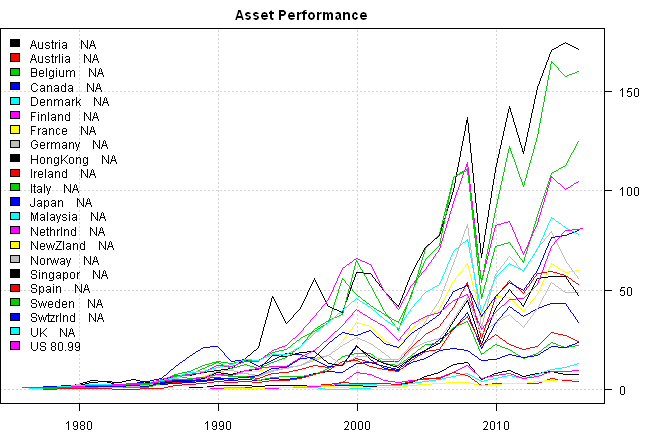
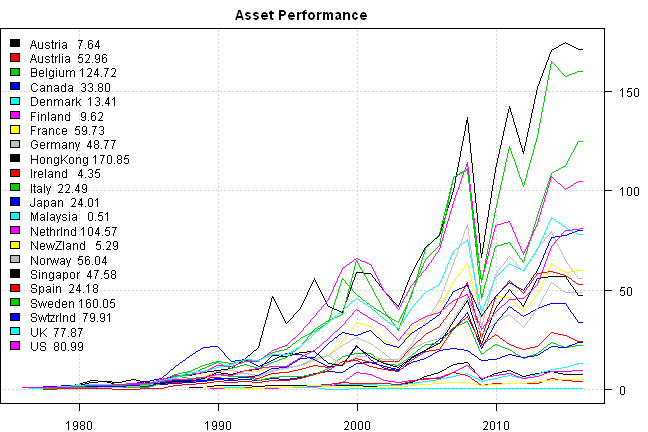
update blog post

diff --git a/_posts/2016-03-27-Country-Seasonality.md b/_posts/2016-03-27-Country-Seasonality.md
@@ -19,6 +19,7 @@ Load historical country returns from AQR data library
 
 
 
+
 {% highlight r %}
 #*****************************************************************
 # Read historical data from AQR library
@@ -76,20 +77,7 @@ signal = ret < 0
 signals = list(down1yr = signal, down2yr = signal & mlag(signal), down3yr=signal & mlag(signal) & mlag(signal,2))
 
 # compute stats
-stats = list()
-for(signal in names(signals)) {
-	temp = signals[[signal]]
-	stats[[paste(signal,'hold1yr')]] = coredata(ret)[ifna(mlag(temp),F)]
-	stats[[paste(signal,'hold2yr')]] = 1/2 * coredata(ret + mlag(ret,-1))[ifna(mlag(temp),F)]
-	stats[[paste(signal,'hold3yr')]] = 1/3 * coredata(ret + mlag(ret,-1) + + mlag(ret,-3))[ifna(mlag(temp),F)]
-}
-stats = lapply(stats,na.omit)
-# sapply(stats,mean) # mean
-
-# make a barplot
-par(mar = c(8, 4, 2, 1))
-boxplot(stats,las=2)
-	abline(h=0,col='gray')
+make.stats(signals, ret)
 {% endhighlight %}
 
 ![plot of chunk plot-3](/public/images/2016-03-27-Country-Seasonality/plot-3-1.png) 
@@ -109,32 +97,9 @@ and holds for the next 1/2/3 years
 #*****************************************************************
 # Strategy
 #*****************************************************************
-models = list()
+models = run.models(signals, data)
 
-data$weight[] = NA
-	data$weight[] = ntop(prices, n)
-models$equal.weight = bt.run(data, silent=T)
-
-for(signal in names(signals)) {
-	temp = signals[[signal]]
-	data$weight[] = NA
-		data$weight[] = ntop(temp, n)
-	models[[paste(signal,'hold1yr')]] = bt.run(data, silent=T)
-	
-	temp = signals[[signal]]
-		temp = temp | mlag(temp)
-	data$weight[] = NA
-		data$weight[] = ntop(temp, n)
-	models[[paste(signal,'hold2yr')]] = bt.run(data, silent=T)
-	
-	temp = signals[[signal]]
-		temp = temp | mlag(temp) | mlag(temp,2)
-	data$weight[] = NA
-		data$weight[] = ntop(temp, n)
-	models[[paste(signal,'hold3yr')]] = bt.run(data, silent=T)
-}
-
-strategy.performance.snapshoot(models, T, sort.performance=F)
+strategy.performance.snapshoot(models, T)
 {% endhighlight %}
 
 ![plot of chunk plot-4](/public/images/2016-03-27-Country-Seasonality/plot-4-1.png) NULL
@@ -168,7 +133,66 @@ For example, we may run the same tests using 1% as the trigger.
 Alternatively the trigger value can be derived from recent market data
 and adaptively adjusted as market enter new regimes.
  
+ 
+ Supporting functions:
+ ---
+ 
 
+
+{% highlight r %}
+#*****************************************************************
+# Stats
+#*****************************************************************
+make.stats = function(signals, ret) {
+	# compute stats
+	stats = list()
+	for(signal in names(signals)) {
+		temp = signals[[signal]]
+		stats[[paste(signal,'hold1yr')]] = coredata(ret)[ifna(mlag(temp),F)]
+		stats[[paste(signal,'hold2yr')]] = 1/2 * coredata(ret + mlag(ret,-1))[ifna(mlag(temp),F)]
+		stats[[paste(signal,'hold3yr')]] = 1/3 * coredata(ret + mlag(ret,-1) + + mlag(ret,-3))[ifna(mlag(temp),F)]
+	}
+	stats = lapply(stats,na.omit)
+	# sapply(stats,mean) # mean
+
+	# make a barplot
+	par(mar = c(8, 4, 2, 1))
+	boxplot(stats,las=2)
+		abline(h=0,col='gray')
+}
+
+#*****************************************************************
+# Strategy
+#*****************************************************************
+run.models = function(signals, data) {
+	models = list()
+
+	data$weight[] = NA
+		data$weight[] = ntop(prices, n)
+	models$equal.weight = bt.run(data, silent=T)
+
+	for(signal in names(signals)) {
+		temp = signals[[signal]]
+		data$weight[] = NA
+			data$weight[] = ntop(temp, n)
+		models[[paste(signal,'hold1yr')]] = bt.run(data, silent=T)
+		
+		temp = signals[[signal]]
+			temp = temp | mlag(temp)
+		data$weight[] = NA
+			data$weight[] = ntop(temp, n)
+		models[[paste(signal,'hold2yr')]] = bt.run(data, silent=T)
+		
+		temp = signals[[signal]]
+			temp = temp | mlag(temp) | mlag(temp,2)
+		data$weight[] = NA
+			data$weight[] = ntop(temp, n)
+		models[[paste(signal,'hold3yr')]] = bt.run(data, silent=T)
+	}
+
+	models
+}	
+{% endhighlight %}
 
 
 
